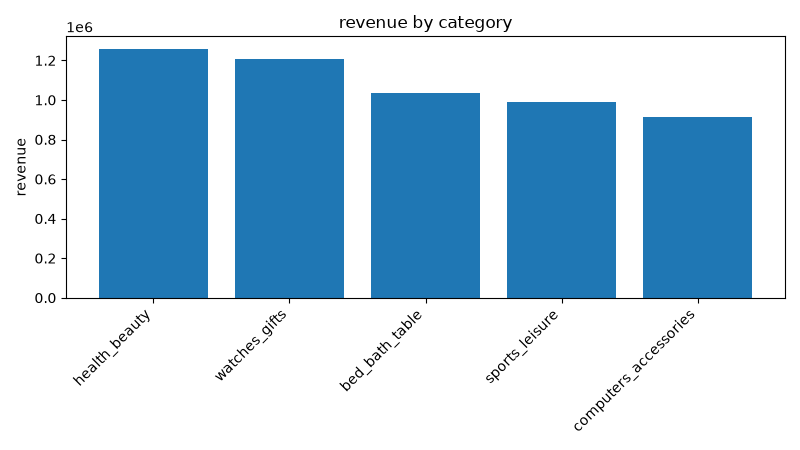
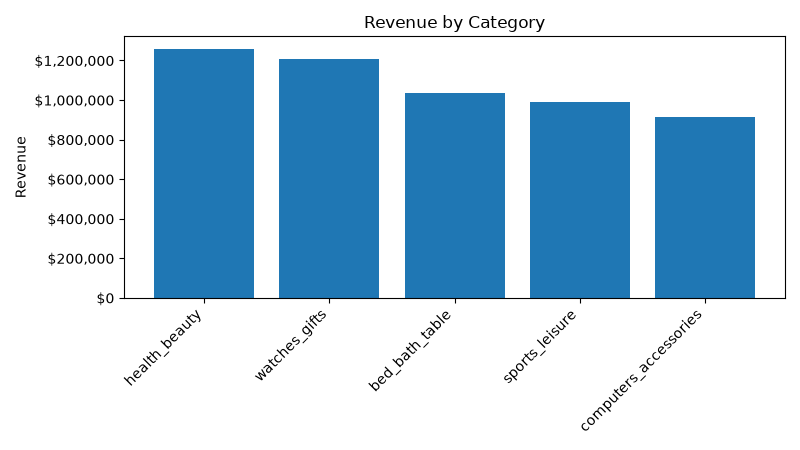
Day 9 polish: currency formatting for money columns, cleaner chart titles

diff --git a/output_formatter.py b/output_formatter.py
@@ -48,6 +48,25 @@ def build_table(columns: list, rows: list) -> pd.DataFrame:
 
 _DATE_COL_HINTS = ("date", "timestamp", "_at", "year", "month", "ym")
 
+_MONEY_COL_HINTS = ("revenue", "price", "payment", "value", "freight", "total", "spend", "paid")
+
+
+def _is_money_column(col_name: str) -> bool:
+    return any(h in col_name.lower() for h in _MONEY_COL_HINTS)
+
+
+def _format_money(v) -> str:
+    try:
+        return f"${float(v):,.2f}"
+    except (TypeError, ValueError):
+        return str(v)
+
+
+def _pretty_label(col_name: str) -> str:
+    """'category_name' -> 'Category Name' -- for chart titles/axis labels only,
+    the raw column name is still used everywhere the code needs to match it."""
+    return col_name.replace("_", " ").title()
+
 
 def _looks_like_date_column(col_name: str, sample_values) -> bool:
     name_hint = any(h in col_name.lower() for h in _DATE_COL_HINTS)
@@ -104,17 +123,24 @@ def choose_and_build_chart(columns: list, rows: list, output_path: str = "chart.
     values = [r[numeric_col_idx] for r in rows[:20]]
 
     is_date = _looks_like_date_column(columns[label_col_idx], [r[label_col_idx] for r in rows[:3]])
+    is_money = _is_money_column(columns[numeric_col_idx])
+
+    metric_label = _pretty_label(columns[numeric_col_idx])
+    axis_label = _pretty_label(columns[label_col_idx])
 
     plt.figure(figsize=(8, 4.5))
+    ax = plt.gca()
     if is_date:
         plt.plot(labels, values, marker="o")
         plt.xticks(rotation=45, ha="right")
-        plt.title(f"{columns[numeric_col_idx]} over {columns[label_col_idx]}")
+        plt.title(f"{metric_label} over {axis_label}")
     else:
         plt.bar(labels, values)
         plt.xticks(rotation=45, ha="right")
-        plt.title(f"{columns[numeric_col_idx]} by {columns[label_col_idx]}")
-    plt.ylabel(columns[numeric_col_idx])
+        plt.title(f"{metric_label} by {axis_label}")
+    plt.ylabel(metric_label)
+    if is_money:
+        ax.yaxis.set_major_formatter(lambda x, pos: f"${x:,.0f}")
     plt.tight_layout()
     plt.savefig(output_path, dpi=100)
     plt.close()
@@ -131,7 +157,12 @@ def display_result(question: str, result: dict, chart_path: str = "chart.png"):
         return summary, None, None
 
     df = build_table(result["columns"], result["rows"])
-    print(df.to_string(index=False, max_rows=20))
+
+    display_df = df.copy()
+    for col in display_df.columns:
+        if _is_money_column(col):
+            display_df[col] = display_df[col].apply(_format_money)
+    print(display_df.to_string(index=False, max_rows=20))
 
     chart = choose_and_build_chart(result["columns"], result["rows"], chart_path)
     if chart:
